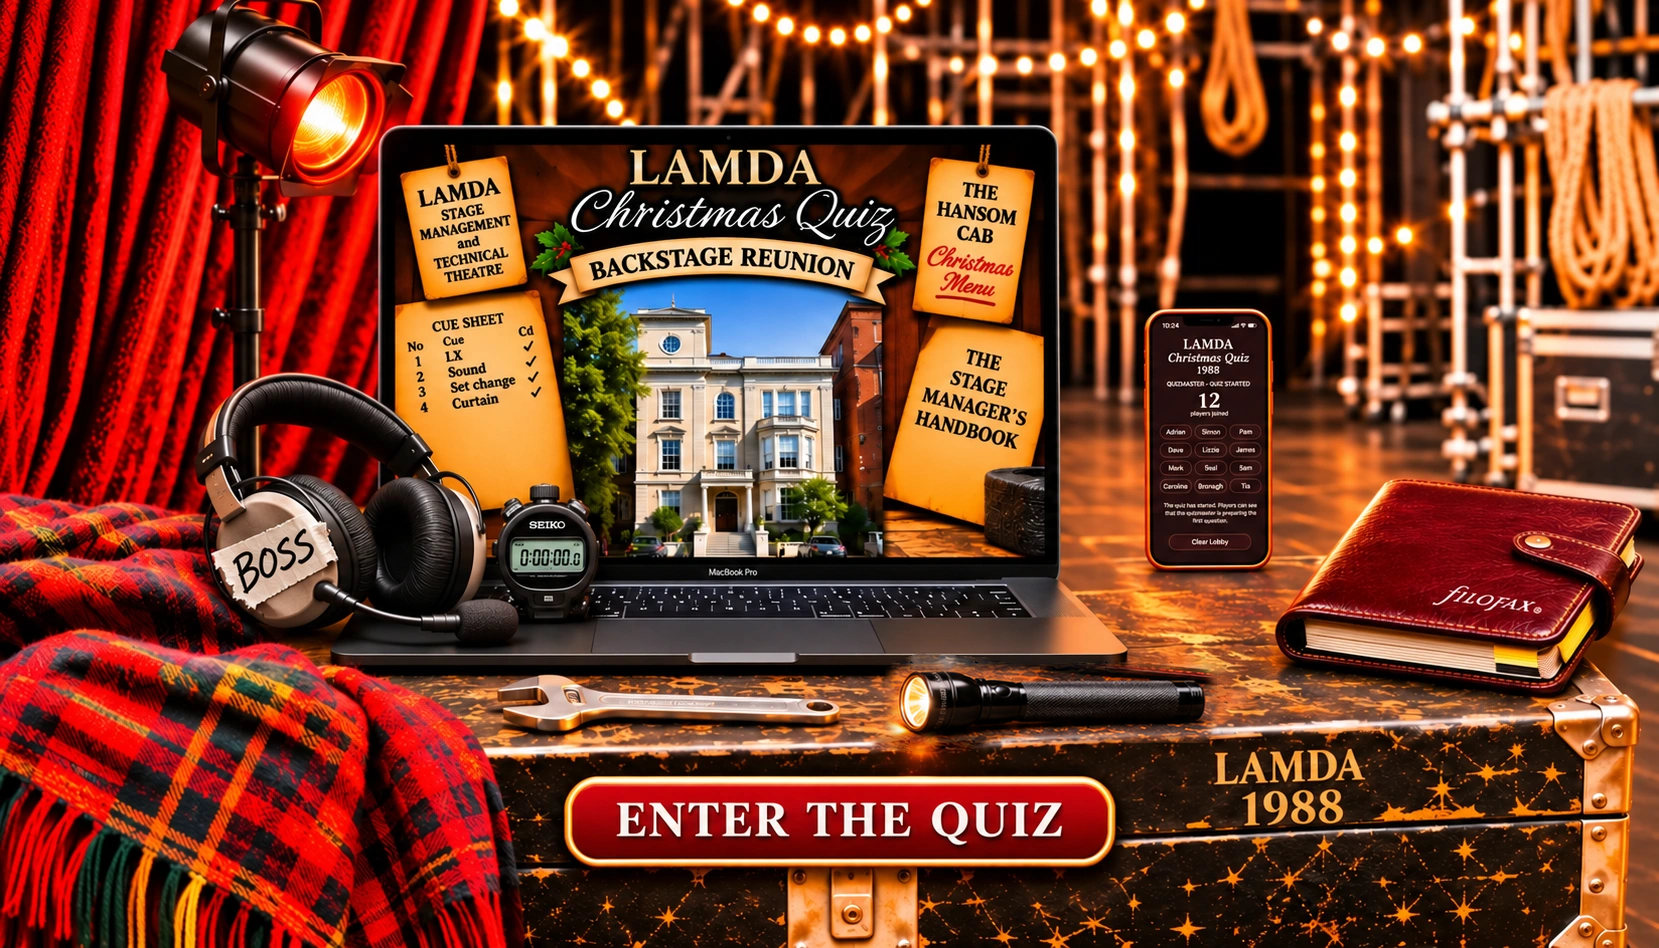
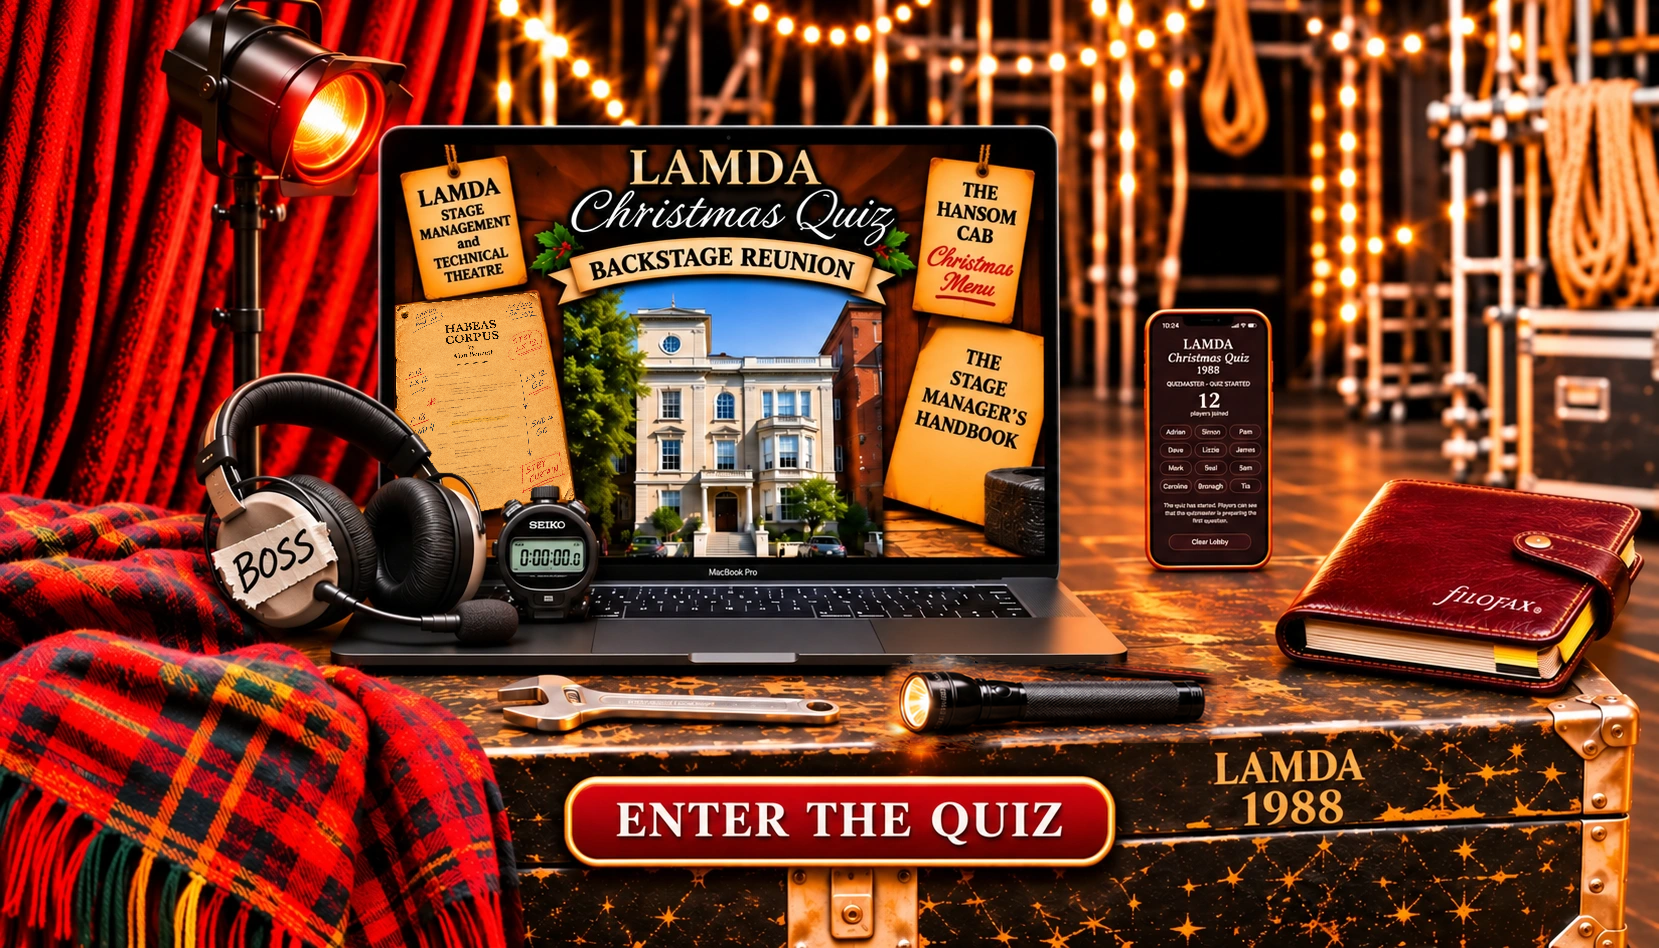
Add files via upload

Changed region(s): [[0.2152, 0.3059, 0.3689, 0.5506]]

diff --git a/index.html b/index.html
@@ -693,8 +693,8 @@ button:disabled{opacity:.5;cursor:not-allowed}
 <body>
 <div id="app"></div>
 <script>
-const PORTRAIT_SCENE = 'assets/landing-ios-maglite-v5.webp?torch=6';
-const LANDSCAPE_SCENE = 'assets/landing-desktop-maglite-v5.webp?torch=6';
+const PORTRAIT_SCENE = 'assets/landing-ios-maglite-v5.webp?script=1';
+const LANDSCAPE_SCENE = 'assets/landing-desktop-maglite-v5.webp?script=1';
 const OLD_QUESTIONS = [{"q": "Which building was the gateway to our LAMDA world?", "options": ["The MacOwan Theatre", "Tower House", "The Rehearsal Studio", "Upper Woburn Place"], "answer": 1}, {"q": "What was the full course name?", "options": ["Stage Management", "Technical Theatre", "Stage Management & Technical Theatre", "Production Arts"], "answer": 2}, {"q": "Which play title appears in our reunion design?", "options": ["Hamlet", "Annie Get Your Gun", "The Seagull", "Uncle Vanya"], "answer": 3}];
 const API_BASE = ''; // Same-origin Cloudflare Pages Function at /api/lobby
 const GAME_CODE = 'LAMDA1988';
